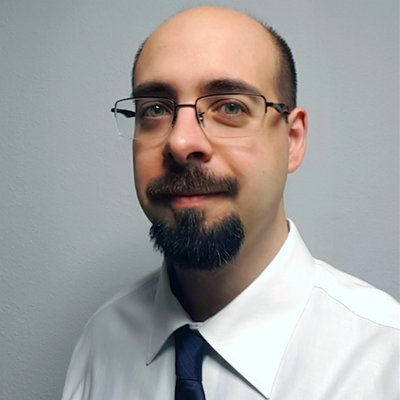
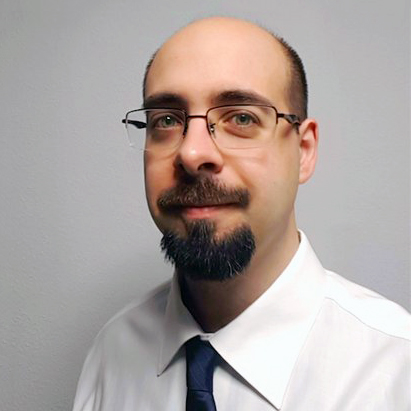
newimg

diff --git a/index.html b/index.html
@@ -9,7 +9,7 @@ layout: default
 			{% include sidebar.html %}
 			<div id="content" class="8u skel-cell-important">
 				<section align="left">
-		    	<img align="left" src="img1.jpg" height="150" width="150" hspace="200">
+		    	<img align="left" src="img11.jpg" height="150" width="150" hspace="200">
 
 					<br>
 
